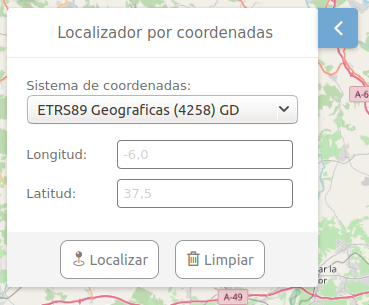
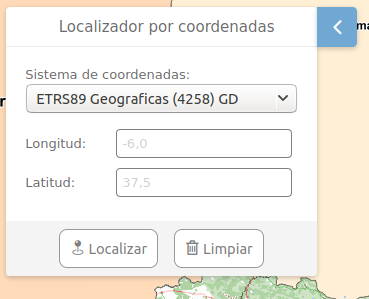
Actualización de dist y readme.md

diff --git a/dist/xylocator.ol.min.css b/dist/xylocator.ol.min.css
@@ -7,7 +7,6 @@
     font-size: 15px;
     height: 39px;
     line-height: 40px;
-    padding: 5px;
     padding-left: 10px;
     text-align: center;
 }
@@ -105,6 +104,30 @@ div.m-xylocator-container>div.m-xylocator-panel>div.button {
 }
 .m-areas > div.m-area > div.m-panel.m-xylocator.collapsed {
     max-height: 40px;
+}
+
+#m-xylocator-dms > div > div > input[type="number"] {
+    width: 2.5rem;
+}
+#m-xylocator-dms > div > div {
+    height: 60px;
+    display: flex;
+    align-items: center;
+}
+#m-xylocator-dms > div {
+    display: flex;
+}
+#m-xylocator-dms > div > div > span {
+    font-size: 24px;
+    margin-left: 2px;
+    margin-right: 10px;
+}
+#m-xylocator-dms .m-xylocator-dms-radio {
+    line-height: 14px;
+    width: 70px;
+}
+#m-xylocator-dms p {
+    margin-bottom: -0.8rem;
 }
 
 /*# sourceMappingURL=xylocator.ol.min.css.map*/

diff --git a/src/facade/assets/css/xylocator.css b/src/facade/assets/css/xylocator.css
@@ -7,7 +7,6 @@
     font-size: 15px;
     height: 39px;
     line-height: 40px;
-    padding: 5px;
     padding-left: 10px;
     text-align: center;
 }
@@ -105,4 +104,28 @@ div.m-xylocator-container>div.m-xylocator-panel>div.button {
 }
 .m-areas > div.m-area > div.m-panel.m-xylocator.collapsed {
     max-height: 40px;
+}
+
+#m-xylocator-dms > div > div > input[type="number"] {
+    width: 2.5rem;
+}
+#m-xylocator-dms > div > div {
+    height: 60px;
+    display: flex;
+    align-items: center;
+}
+#m-xylocator-dms > div {
+    display: flex;
+}
+#m-xylocator-dms > div > div > span {
+    font-size: 24px;
+    margin-left: 2px;
+    margin-right: 10px;
+}
+#m-xylocator-dms .m-xylocator-dms-radio {
+    line-height: 14px;
+    width: 70px;
+}
+#m-xylocator-dms p {
+    margin-bottom: -0.8rem;
 }
